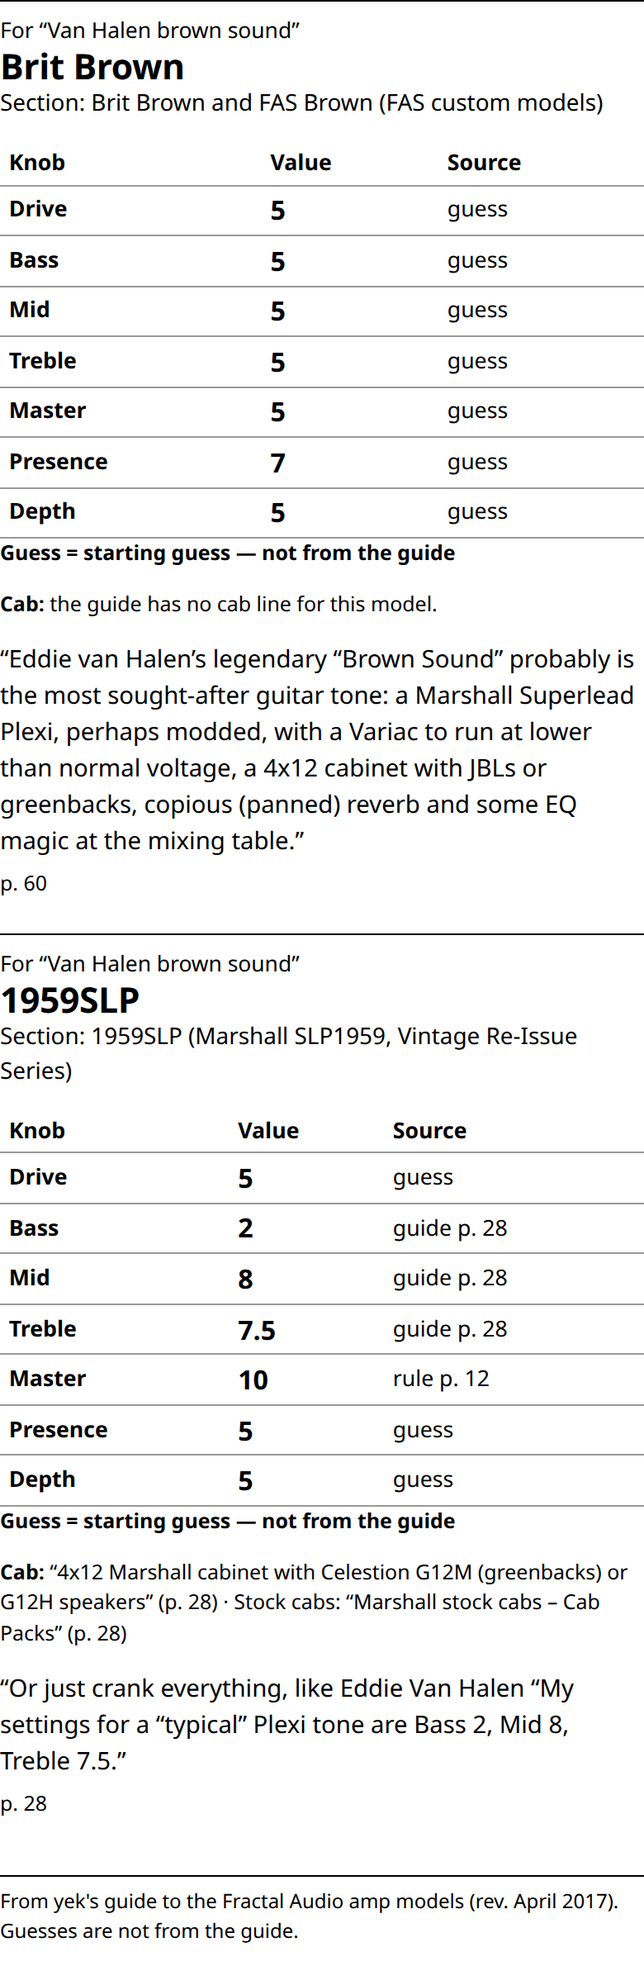
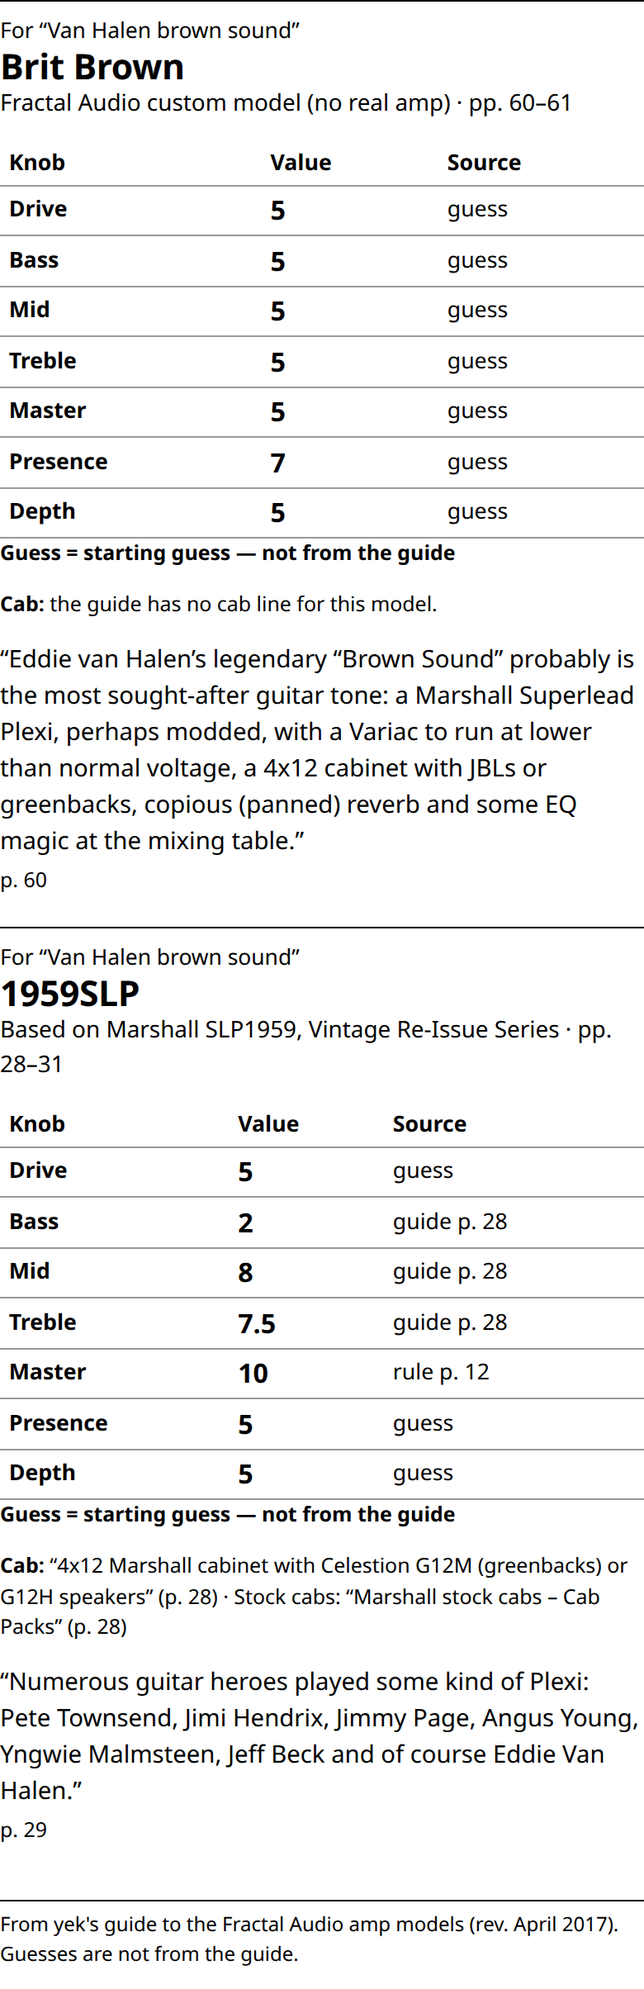
I: round 2 shots and build report
Shots retaken at 390 and 1280, plus ask-ac30 and ask-after-search-390. Report records steps A–I,
round 2 negative controls, the build-mock verification control, the tf1 c346d2f cross-review
and new contract questions (joined-passage rule definition, card header not yet in API.md).

Claude-Session: https://claude.ai/code/session_014edFnS9XyCBL98uPHad7K9

diff --git a/docs/build-report-tf2.md b/docs/build-report-tf2.md
@@ -1,23 +1,154 @@
 # Build report — tf2 (app)
 
-**mock ready** — `808dea5`. The mock JSON is `app/mock/models.json` (the `data/models.json` shape, §3) and
-`app/mock/answers.json` (Answers in the §6 shape, plus the health fixture). tf1 cross-review welcome.
+**mock ready** — first at `808dea5`; current fixtures at `7c23a37`. The mock JSON is `app/mock/models.json` (the
+`data/models.json` shape, §3) and `app/mock/answers.json` (Answers in the §6 shape, plus the health fixture).
+**Round 2 done (A–I). Waiting for "data ready is on main" to rebuild the mock from tf1's data (step 3).**
 
-## Contract questions
+## Contract questions (round 2)
 
-1. **`ai.reason` when AI ran fresh.** §5 lists `off`, `no_key`, `guide_not_loaded`, `spend_cap`, `cached` and
-   `error`, but no value for a fresh successful run. The mock uses `null`. tf1: please confirm or name the value.
-2. **"Every button, chip and pill ≥ 44 × 44."** I read it literally, so static pills are also ≥ 44 px tall and
-   wide: page pills (`p. 60`), brand pills and the unit pill. That makes the Models rows heavier than plain tags
-   would. If the lead meant interactive pills only, page and brand pills can shrink to about 32 px.
-3. **Is Dweezil's B-man a stub? (golden may be missing one).** Its section (p. 139) holds nothing but the running
-   header and "Please refer to the section on the 65 Bassguy model." That is exactly §0's stub definition, and the
-   sections file gives it an empty card and empty specs. But `data/golden.json` `stub_ids` / `stub_targets` list only
-   5 stubs and leave it out. The mock follows §0, so it has 6 stubs (`dweezils-b-man` → `65-bassguy`) and differs from
-   golden here. I haven't bent the mock to match. Lead: please either add it to golden or say why it isn't a stub.
-4. **`Answer.query`.** §6 shows the query echoed back. The mock echoes the trimmed query as typed, case kept.
+1. **The joined-passage rule and the new card header aren't in the contract on main.** At `5c164a8`, `docs/API.md`
+   §4.2 has no joined-passage rule, and §8 still says the card shows "Section: … · based on …". I built B and C from
+   the lead's round-2 message. Please add both to API.md so tf1 builds to the same rule.
+2. **The literal join rule would damage good quotes, so I refined it. Please confirm, or pick another definition.**
+   - **Opening-quote rule.** `/(?<=[A-Za-z0-9,]) (?=“)/` also matches short quoted words inside one passage, like
+     "legendary “Brown Sound” probably is…" (p. 60) and "for a “typical” Plexi tone" (p. 28). Splitting there
+     would cut real sentences in half. My rule splits before “ only when it opens a new passage: no closing ” within
+     3 words, or another “ before it closes. In the fixtures, 48 quotes (29 in models.json, 19 in answers.json)
+     contain such a short inline phrase and are kept whole.
+   - **Dash rule.** " – " + a capitalised word also matches list separators, like "Marshall stock cabs – Cab Packs".
+     My rule counts the dash only right after a closing quote mark or sentence punctuation ("…to taste.” – Cliff").
+   - **Where it lives.** The definition is `joinPoints()` in `app/tools/guide-text.mjs`, with unit cases in
+     `app/tests/quotes.spec.mjs`. tf1's engine needs the same definition, or the mock and the Worker will quote
+     differently.
+3. **Mock unit names are still rough before data lands.** The builder takes them only from section titles and
+   synopsis bullets, so for example `fas-custom-models` has the unit name "FAS custom models". Real data replaces this.
 
-## What I built
+### Round 1 questions — answered by the lead (`5c164a8`, DECISIONS #13)
+
+| # | Question | Answer | Status |
+|---|---|---|---|
+| 1 | `ai.reason` for a fresh successful run | `null` (the mock already did this) | DONE |
+| 2 | 44 px for static pills? | Only for what you can tap; static tags ≥ 24 px tall | DONE (step A) |
+| 3 | Dweezil's B-man a stub? | Yes, → `65-bassguy`; golden now has six stubs | DONE (mock already had six) |
+| 4 | `Answer.query` echo | Trimmed, as typed | DONE (unchanged) |
+
+## Round 2 (lead's list A–I)
+
+Commits in order: A `dbc3c46` · B `cd51aa8` · E `a0feb44` · H `89bba5f` · C `7c23a37` · D `2ad1c44` · shots +
+report (this commit). The suite ran green on the full tree before each group of commits; the individual commits
+were not each re-run on their own.
+
+**Suite at `2ad1c44`, from my own worktree (clean tree), chromium + webkit at 390 and 1280: 168 passed,
+96 skipped.** The skips are the run-once data and server specs on the other three projects (serve, quotes and
+shape run on chromium-1280 only), the phone spec on the desktop projects, and the live spec. These are not
+QA-worktree numbers.
+
+| Step | What changed | Status |
+|---|---|---|
+| A | Page, source and brand pills are static tags at 28 px (unit and demo pills 32 px). The hit test now covers only what you can tap: `button, a[href], .chip, summary, label.switch, select` and text inputs; a switch is measured by its label. A new check keeps static tags ≥ 24 px tall on the same 6 page states. | DONE |
+| B | `app/tools/guide-text.mjs` holds parsing, the §0 check and passage splitting. The builder cuts joined passages everywhere it picks a quote (page sentences, tips, synopsis, cab fields) and refuses any joined quote (`Q()` dies). `quotes.spec.mjs` checks that no quote in either fixture is joined, plus unit cases. 1959SLP's quotes are now "Or just crank everything, like Eddie Van Halen" and, separately, "“My settings for a “typical” Plexi tone are Bass 2, Mid 8, Treble 7.5." Its Van Halen card cites p. 29 and p. 30 instead. | DONE |
+| C | Card header: "Based on <based_on> · pp. N–M"; "Fractal Audio custom model (no real amp)" when based_on (or the section title, when based_on is null) starts with "FAS custom model"; "Guide section: <section>" only when the unit name isn't one of the title's name parts. Same header on binder picks. The AC30 mock card now uses unit "Class-A 30W TB", so the guide-section line is shown and tested. | DONE |
+| D | At ≤ 600 px, the example chips sit in one contained row that scrolls sideways. After a search, focus moves to the results summary (or the no-support heading), which scrolls to the top on phones (`nearest` on desktop). 32 px above the summary at every width. | DONE |
+| E | `app/tests/serve.spec.mjs`, with raw `node:http` so paths aren't normalised before sending. Tests 200 + content type for `/`, `/index.html`, `/app.css`, `/api.js`, `/mock/models.json`; 404 for `/tests/`, `/tests/ask.spec.mjs`, `/tools/`, `/tools/build-mock.mjs`, `/mock/`, `/mock`, `/serve.mjs`, `/playwright.config.mjs`, `/../package.json`, `/%2e%2e/package.json`, `/..%2fAGENTS.md`, `/.rig/BRIEF.md`, a dotfile probe inside `app/`, `/nope.html`; 405 for POST. | DONE |
+| F | Negative control on the builder's verification (below). | DONE |
+| G | Cross-review of tf1 `c346d2f` (below). | DONE |
+| H | `app/tests/shape.mjs` checks Health, the models list + Summary, model detail + Model (§3.1), Answer and error bodies. It checks required keys and types; enums for status, source, knob kind, `ai.reason` (null or a named value, null only when `used`), drop kinds, intent, facets and Ares param/where; exactly 7 knobs in order; direction only on a guess; integer pages in 1–301 and inside the suggestion's pages; why quotes 12–320 characters; 1–3 why quotes; rank order; message rules for ok / no support; the GK label; 2 https Ares sources. `shape.spec.mjs` runs it over all 109 fixture models, every fixture answer (AI on and off, and the no-support template), and the mock backend's own responses: health, 4 list filters, 3 model details, the 404 body, 5 queries × AI on/off, and a 400 body. `live.spec.mjs` runs the same checks against the Worker when `TF_LIVE_API` is set. | DONE |
+| I | Shots retaken and looked at (below); report updated. | DONE |
+
+### Why some checks needed more than the literal list (E, D)
+
+- **E, dotfile rule.** `/.rig/BRIEF.md` isn't under `app/`, so it 404s even with the dotfile rule removed.
+  `/../package.json` and `/%2e%2e/package.json` are normalised to `/package.json` by the server's URL parser
+  before the rule runs. Those checks stay in the spec but can't go red on their own. So the spec creates a real
+  dotfile inside `app/` (`app/.tf-dotfile-probe.txt`, removed after), and the traversal control uses
+  `/..%2fAGENTS.md`, which does reach the guard.
+- **D, scroll check.** In emulation there's no on-screen keyboard, so at 390 × 844 the first card title can already
+  be on screen without any scroll, and "title hit-tests to itself" alone couldn't fail. The phone test also checks
+  that the summary line's top is < 40 px after the search, which the scroll decides. It also checks that focus is on
+  the summary, and on the heading for no support.
+
+### Negative controls, round 2 (each made red once, restored with `git checkout`, rerun green)
+
+Each control printed its `git diff --stat` before running, so an edit that didn't apply can't pass as red.
+
+| # | Break | Test | Red with | Restored |
+|---|---|---|---|---|
+| A (f) | djent chip forced to 30 px | Ask with results: everything you can tap… | `button.chip "djent": 75.3×30.0` | green |
+| A | pills shrunk to 12 px type, no min-height | Ask with results: static tags ≥ 24 px | 19 tags listed, e.g. `pill-page "p. 270": 14.0 px tall` | green |
+| B | `hasJoin` always false | join detector catches the known glued passage | `Expected: true, Received: false` | green |
+| B | the old glued 1959SLP tip planted in `models.json` | no joined passage in app/mock/models.json | `$.models[6].tips[1] p. 28: Or just crank everything, like Eddie Van Halen “My settings…` | green |
+| D | `scrollIntoView` removed | type + Enter: focus moves… (chromium-390) | `Expected < 40, Received 506.3` | green |
+| D | chip row allowed to wrap | example chips sit in one row (webkit-390) | `Expected 1, Received 5` rows | green |
+| E | dotfiles allowed in `serve.mjs` | 404 for /.tf-dotfile-probe.txt | `Expected 404, Received 200` | green |
+| E | traversal guard removed | 404 for /..%2fAGENTS.md | `Expected 404, Received 200` | green |
+| H | `taper_note` deleted from the JTM 45 card | every fixture answer has the §6 Answer shape | `"jtm 45" (on): answer.suggestions[0].taper_note: missing` | green |
+
+### F — negative control on build-mock verification
+
+| Input | Result |
+|---|---|
+| Unchanged temp copy of `app/mock/models.json` via `--models` | builds, exit 0 (the control can pass; `app/mock` restored afterwards) |
+| Same copy, 1959SLP synopsis `…Plexi re-issue` → `…Plexi re-issuf` | `build-mock: quote not verified on p. 28: "Models of a 100 watt Superlead Plexi re-issuf"`, exit 1, `app/mock` untouched |
+| Guide copy in the scratchpad (outside git, deleted after), p. 12 `will default at 10.` → `will default at 11.` | `build-mock: quote not verified on p. 12: "If the original amp has no Master Volume control, the Master control in the amp model will…"`, exit 1, `app/mock` untouched |
+
+**First attempt at the guide-copy control was void.** My first substitution didn't match, because the page-12
+sentence wraps across lines in the raw file. The script flagged "guide copy not changed" and the build passed. I
+redid it with a whitespace-tolerant substitution, confirmed the copy differs ("default at 11." present,
+"default at 10." gone) and got the red above.
+
+### What the round 2 shots showed (I)
+
+The six screens at 390 and 1280 are retaken. Two new shots: `ask-ac30-*` (the "Guide section" line) and
+`ask-after-search-390` (the phone viewport right after type + Enter).
+
+- **After a search at 390:** the summary line is at the top, then "Found in the guide", then the Brit Brown
+  title and header, all without a manual scroll.
+- **Card headers:**
+  - "Fractal Audio custom model (no real amp) · pp. 60–61" for Brit Brown.
+  - "Based on Marshall SLP1959, Vintage Re-Issue Series · pp. 28–31" for 1959SLP.
+  - "Based on VOX AC30 · pp. 107–109" plus "Guide section: Class-A 30W (VOX AC30)" for the Class-A 30W TB card.
+  - Binder picks and print use the same header.
+- **Tags:** page, source and brand tags are smaller (28 px) and still readable; the Models rows are lighter.
+- **Chips:** at 390 they sit in one row cut off at the panel edge, and the row scrolls. There's no fade or arrow
+  hinting that it scrolls; I left it plain.
+- **Print:** all text black on white, footer present.
+- **Not a defect: a band in some phone shots.** Full-page shots of a page that was scrolled before capture
+  (`no-support-390`, `ask-results-390`) show a band where the fixed aurora background doesn't line up with the
+  stitched capture. It isn't in the viewport shot or on screen.
+- **Left as is: the model detail header.** `model.html` still reads "Section: … · based on …". C covered the card
+  header, so I didn't change the detail page. Lead: say if it should match.
+
+## Cross-review of tf1 c346d2f
+
+A throwaway script in my scratchpad, outside git. It loads tf1's `core/text.js`, `core/guide.js` and
+`core/verify.js`, taken with `git show c346d2f:<path>` (the exact commit; tf1's worktree wasn't read or touched),
+and compares them with my `app/tools/guide-text.mjs` on the real guide.
+
+| Check | Result |
+|---|---|
+| `pageText` for all 301 pages (tf1 `parsePages` by lines vs mine by regex) | identical on every page |
+| `splitSentences` for all 301 pages | identical on every page |
+| `checkQuote` vs my `isVerified` over every `{quote, page}` in app/mock/*.json | 538 quotes: 519 both ok, 19 both fail (the 19 have `page: null`: the planted SAMPLE Ares flag and the Ares source quotes, which aren't guide quotes), **0 disagreements** |
+| Boundary cases, both sides | all agree: exact ok; one character changed → not_on_page; wrong page → not_on_page; page 0 / 302 / "28" (string) → bad_page; leading space, double space, NBSP → not_normalised; real 11-character substring → too_short; real 12-character substring → ok; 320 characters → ok; 321 → too_long; three sentences → too_many_sentences; non-string → not_normalised |
+
+**No boundary defect found.** My first run's "12 characters" case was mis-built: it ended in a space, so both said
+`not_normalised` without testing length. I replaced it with real 11- and 12-character substrings, and they agree.
+One difference that isn't a defect: tf1's `checkQuote` returns a reason, mine a boolean, and `verifyQuote` (the
+boolean form) matches mine.
+
+## Still open
+
+- **Step 3:** rebuild the mock from `main:data/models.json` once the lead says "data ready is on main"
+  (`node app/tools/build-mock.mjs --models <file>`). If tf1's quotes contain joined passages under the current
+  definition, that build will stop and name them; that's intended.
+- **`live.spec.mjs`** (Ask journey + §6 shapes) hasn't run: it needs a Worker (the lead runs it in QA).
+- **QA-worktree numbers:** the lead runs `rig qa`.
+
+---
+
+## Round 1 record
+
+### What I built
 
 | Item | Status |
 |---|---|
@@ -32,103 +163,33 @@
 | `model.html` detail: unit names, spec table ("Not in the guide" for null), synopsis, tips, settings with knob chips, directions, no-master-volume rule, cab, notes, each with its page pill; unknown-id message | DONE |
 | `binder.html`: list, remove, Print; print CSS gives one page per ≤ 3 picks, white, black type, no nav, knob table with "guide p. N" / "rule p. 12" / "guess", cab line, first why quote, footer | DONE |
 | `app/tools/build-mock.mjs`: builds both fixtures from the local guide; `--models <path>` rebuilds them from tf1's real `data/models.json` | DONE |
-| Step 3: rebuild the mock from `main:data/models.json` | NOT DONE: waiting for "data ready is on main" (checked: `data/models.json` isn't on main yet) |
 | `app/playwright.config.mjs`, `app/tests/*.spec.mjs`, `app/tests/live.spec.mjs` | DONE |
-| Screenshots in `docs/shots/` (390 and 1280): `ask-results`, `no-support`, `models-filtered`, `model-detail`, `binder`, `binder-print` | DONE, looked at (below) |
-
-### What the screenshots showed
-
-- **Ask results:** Brit Brown has seven dashed amber dials, each with the word "guess", the guess sentence and the
-  Presence nudge line with p. 60. 1959SLP has solid teal Bass/Mid/Treble dials with p. 28, Master 10 with p. 12,
-  guesses for the rest, the taper note and the cab. Two columns at 1280, one at 390, no overflow.
-- **No support:** heading, unmatched words and the suggestion copy, then the Ares line and Sources.
-- **Models filtered:** "Showing 12 of 109" with Marshall pressed. Stub rows (Brit Pre, Brit Super) read "See …".
-- **Model detail:** spec table with "Not in the guide", and every item with a page pill.
-- **Binder, screen:** two picks with knob tables ("guide p. 28", "rule p. 12", "guess").
-- **Binder, print:** white ground, no nav, thin rules, footer copy.
-- **Fixed after looking:** in print, the "Section:" line was still light grey (its screen colour), so print CSS now
-  forces all text black, and the binder-print shots were retaken.
-- **Noticed, left as is:**
-  - Some quotes show doubled marks (“Adjust Presence to taste.””). The guide's own closing mark is part of the
-    exact substring, and §0 forbids trimming it.
-  - The mock's 1959SLP directions miss "turn Bass all the way down". That comes from the mock's simple parser;
-    real data replaces it.
 
 ### About the mock fixtures (pre data-ready)
 
-tf1's `data/models.json` doesn't exist yet, so `build-mock.mjs` derives the 109 models itself from
-`yek-guide-sections.json` and the page text. It writes derived fields and short quotes only, and **every quote goes
-through the §0 checks** (normalised, 12–320 characters, ≤ 2 sentences, exact substring of its page); a miss stops
-the build. The quote budget is 29,446 of 540,437 characters (5.4%). All golden `ids_must_exist` are present.
+`build-mock.mjs` derives the 109 models from `yek-guide-sections.json` and the page text. It writes derived fields
+and short quotes only, and every quote passes the §0 checks and is not a joined passage; a miss stops the build.
+The quote budget is 27,984 of 540,437 characters (5.2%). All golden `ids_must_exist` are present, and the six
+stubs and their targets match golden.
 
-This is a stand-in, and it is less careful than tf1's build will be:
-- **Unit names** come only from the section title and the synopsis bullet lists, not from the TOC or appendix, so
-  some are rough (for example, "Euro Blue and Red" gives "Euro Blue" and "Red").
-- **Controls, notes and cab notes** are left empty.
-- **Settings** are sentences containing "settings" that carry a knob number.
+Stand-in limits:
+- **Unit names** come only from section titles and synopsis bullets.
+- **Controls, notes and cab notes** are empty.
+- **Settings** are sentences with "settings" and a knob number.
 - **Scores** in the canned answers are placeholders.
 
-All of this is replaced by `node app/tools/build-mock.mjs --models <real models.json>` once data lands.
-
 Canned answers cover the six example chips plus "JTM 45":
-- **All seven knobs guessed:** Brit Brown, whose Presence tip nudges the guessed Presence up.
-- **Guide knobs plus a direction nudge:** Brit JM45 has guide Drive and Presence, and its tip nudges the guessed Bass down.
+- **All seven knobs guessed:** Brit Brown, with its Presence nudge.
+- **Guide knobs plus a nudge:** Brit JM45.
 - **`no-master-volume` guide rule:** 1959SLP.
 - **General knowledge plus `ai.dropped`:** "the rhythm tone on Master of Puppets", with `unknown_model` "Brown Sound
-  Deluxe" and `bad_page`. With AI off, this query gives the no-support answer.
+  Deluxe" and `bad_page`. With AI off, this query gives no support.
 - **Planted Ares flag:** on the AC30 card, quote `SAMPLE (test only): add Transformer Grind to taste`.
 
-## What I verified, and how it could have failed
+### Round 1 checks and negative controls
 
-Playwright on chromium + webkit at 390 × 844 (touch) and 1280 × 800, against `?mock=1`. State changes use real
-input only: tap on the touch projects, click on desktop, keyboard typing and select-all + Backspace to clear. The
-DOM is read with `evaluate`, never written. **Result at `808dea5`, from my own worktree (clean tree): 104 passed,
-8 skipped (live spec, 2 tests × 4 projects).** These are not QA-worktree numbers. The lead's `rig qa` run is the
-one to quote.
-
-| Check | What makes it red |
-|---|---|
-| Ask: typing "Van Halen brown sound" + Enter gives 1–4 cards, each with ≥ 1 quote and page pills matching `/^p\. \d+$/`; reload keeps `?q=`, the input value and the same card count | pills missing, a pill that doesn't read `p. N`, `?q=` not written or not read |
-| Example chip "Robben Ford" fills the input and shows Bludojai first | chip not wired |
-| No support: exact heading "I can't point to the guide for that." visible and zero cards | heading hidden or reworded |
-| Guesses: all 7 dials `data-kind="guess"`, dashed amber ring (computed `stroke-dasharray` ≠ none, stroke rgb 255,194,77), accessible name ends with the guess note, visible sentence "starting guess — not from the guide"; the guide dial on 1959SLP is solid and never carries the note; the JTM 45 card's guide dials each have a page pill, and "Bass nudged down: …" has a page pill | guesses drawn like guide values |
-| General knowledge heading exact; "Words the AI added: metallica"; source pill "AI pick · quotes checked"; the drops disclosure is hidden until tapped, then lists "Brown Sound Deluxe: not an Axe-Fx II model in the guide"; switching AI off gives no support and no GK box | label changed, disclosure missing |
-| Ares: exactly one flag callout with "Transformer Grind", "SAMPLE (test only):" and the Spkr Comp advice; both release-note URLs hidden until Sources is tapped, then visible | flag not rendered |
-| Models: Marshall chip changes "Showing 109 of 109" and every row carries a Marshall pill; mv "No" rows all read "Master volume: No"; name filter "IIC"; stub `brit-super` links to `brit-afs100-and-brit-super` and keeps `mock=1`; the 1959SLP row opens the detail with the spec table, EL34 / No and page pills; unknown id message and Back link | filter ignored |
-| Binder: Add to binder → Binder nav → reload lists Brit Brown with 7 knob rows; Remove empties it and stays empty after a reload | not persisted |
-| Print: body is dark on screen and nav visible; under `emulateMedia({media:'print'})` body is `rgb(255, 255, 255)`, nav hidden, footer copy exact | print CSS gone |
-| Tap targets on 6 page states (Ask with AI answer + disclosures open, Ask with Ares flag, no support, Models with 109 rows, Model detail, Binder with a pick): every `button, .btn, .chip, .pill, .nav-link, summary, .src-link` is ≥ 44 × 44 and `elementFromPoint` at its centre, after scrolling into view, is the element or inside it. The check also fails if it finds nothing to measure | a small or covered target |
-| No horizontal scroll on the same 6 page states | overflow |
-
-### Negative controls (each made red once on chromium-390, restored with `git checkout`, rerun green)
-
-| # | Break | Test | Red with | Restored |
-|---|---|---|---|---|
-| (a) | `knobs.js`: guesses drawn with the guide class | guesses look like guesses | `guess ring must be dashed — Expected: not "none"` | green |
-| (b) | `shell.js`: `pagePill` returns `""` | typing a tone gives 1–4 cited cards | `card 1 has no page pill — Expected >= 1, Received 0` | green |
-| (c) | `index.js`: no-support `<h2 hidden>` | no support: exact heading | `toBeVisible() failed — element(s) not found` | green |
-| (d) | `store.js`: `setItem` removed | listed in the binder after a reload | `toHaveCount — Expected 1, Received 0` | green |
-| (e) | `app.css`: `@media print` block deleted | print view: white ground | `Expected "rgb(255, 255, 255)", Received "rgb(10, 17, 32)"` | green |
-| (f) | `app.css`: djent chip forced to 30 px | Ask with results: every button… | failures list not empty (chip 30 px, and it now covers nothing at its centre) | green |
-
-Each control's script printed the `git diff --stat` of its mutation first, so no edit that failed to apply could pass as a red.
-
-### Checked by hand, not automated
-
-- `serve.mjs` (curl on port 8301): 200 with the right content type for `/app.css` and `/api.js`; 404 for
-  `/tests/`, `/tools/build-mock.mjs`, `/mock/` (no listing), `/serve.mjs`, `/../package.json`,
-  `/%2e%2e/package.json`, `/..%2fAGENTS.md` and `/.rig/BRIEF.md`; 405 for POST.
-- A headless pass over all pages in mock mode showed no console errors.
-
-## Left undone
-
-- **Step 3** (rebuild the mock from real data) waits for the lead's "data ready is on main".
-- **`live.spec.mjs`** hasn't run; it needs a Worker (the lead runs it in QA).
-- **No automated test for `serve.mjs`** (the traversal and 404 checks above were manual), and no negative control
-  on `build-mock.mjs`'s quote verification.
-- **QA-worktree numbers:** the lead runs `rig qa`.
-
-## Needs from other slices
-
-- **tf1:** confirm the fresh-run `ai.reason` value (question 1) and cross-review the mock JSON shapes.
-- **Lead:** questions 2 and 3.
+The Ask, no-support, guesses, general knowledge / drops, Ares, Models, Binder, print, tap-target and
+horizontal-scroll checks are described in the specs. Each round 1 control was made red once on chromium-390 and
+restored green: (a) guesses drawn with the guide class; (b) `pagePill` returns ""; (c) no-support heading hidden;
+(d) binder `setItem` removed; (e) print CSS deleted; (f) djent chip 30 px. Control (f) was re-run in round 2 against
+the narrowed tap test (above).
